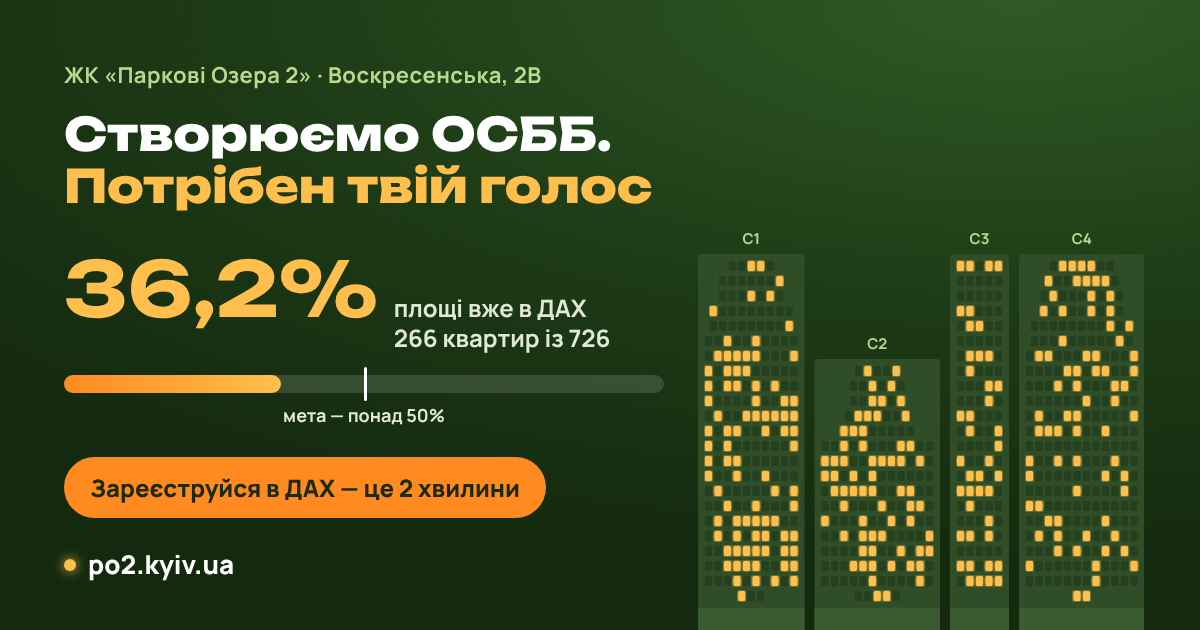
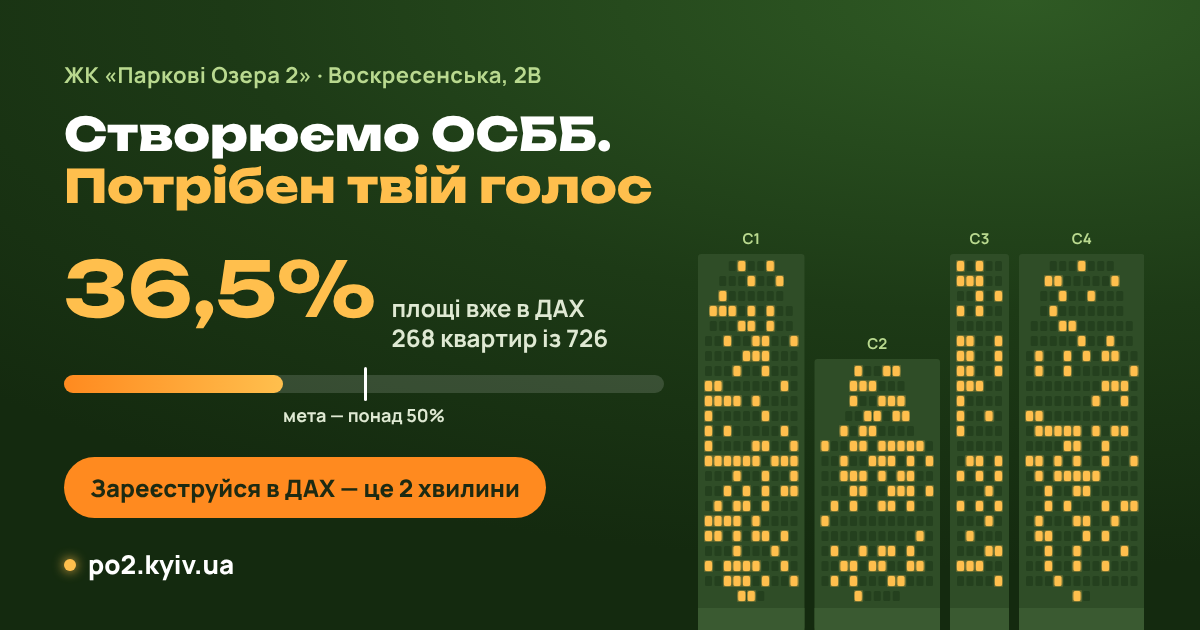
Оновлено голоси ДАХ (36,5%) і прев'ю для Telegram (головна й «Поруч»)
Claude-Session: https://claude.ai/code/session_01WgNAs19H1RoJtxDub5TKHf

Changed region(s): [[0.5858, 0.3921, 0.9558, 0.9651], [0.185, 0.4222, 0.5242, 0.573]]

diff --git a/tools/og-poruch.html b/tools/og-poruch.html
@@ -63,12 +63,12 @@
     [885,335,0],[980,425,0],[952,640,0],[768,345,1],[781,415,1],[795,488,1],[810,565,1]];
   // Справжні заклади й сервіси з poruch.js: [x, y, логотип, працює при відключеннях]
   const PINS = [[140,602,"lafam_kyiv",1],[166,522,"coffee.aspect",1],[300,62,"skyfall.beauty.studio",1],[400,46,"fora",0],[768,345,"nenamazana_",1],
-    [214,330,"np-branch",0]];
+    [214,330,"np-branch",0],[226,598,"np-locker",0],[282,250,"np-locker",0],[668,128,"np-locker",0],[884,470,"np-locker",0]];
   const used = new Set(PINS.map(([x, y]) => x + "," + y));
   document.getElementById("map").innerHTML = `
     <polygon class="yard" points="${YARD}"/><text class="yard__t" x="560" y="440">двір · стилобат</text>
     <g style="filter: drop-shadow(0 6px 8px rgba(60,50,20,.22))">${SH.map((p) => `<polygon class="bld" points="${p}"/>`).join("")}</g>
-    ${[[1,212,598],[2,300,150],[3,610,108],[4,880,560]].map(([n,x,y]) => `<g class="badge" transform="translate(${x} ${y})"><circle r="24"/><text dy="9">${n}</text></g>`).join("")}
+    ${[[1,184,676],[2,300,150],[3,610,108],[4,880,560]].map(([n,x,y]) => `<g class="badge" transform="translate(${x} ${y})"><circle r="24"/><text dy="9">${n}</text></g>`).join("")}
     <text class="street" x="640" y="16">вул. Воскресенська</text>
     ${U.filter(([x, y]) => !used.has(x + "," + y)).map(([x, y, yd]) => `<circle class="${yd ? "u--yard" : "u--street"}" cx="${x}" cy="${y}" r="12"/>`).join("")}
     <defs><clipPath id="c"><circle r="30"/></clipPath></defs>

diff --git a/votes.js b/votes.js
@@ -1,2 +1,2 @@
 // Згенеровано tools/build_votes.py — не редагуйте вручну.
-window.VOTES = {"updatedAt":"2026-11-27T14:27","baseArea":50258.3,"dahArea":18203.0,"areaEstimated":0,"nonres":13,"sections":[{"total":210,"inDah":86},{"total":157,"inDah":65},{"total":110,"inDah":42},{"total":249,"inDah":73}]};
+window.VOTES = {"updatedAt":"2026-11-28T09:42","baseArea":50258.3,"dahArea":18349.6,"areaEstimated":0,"nonres":13,"sections":[{"total":210,"inDah":86},{"total":157,"inDah":66},{"total":110,"inDah":43},{"total":249,"inDah":73}]};

diff --git a/index.html b/index.html
@@ -254,7 +254,7 @@
   </footer>
 
   <script src="data.js?v=20261128a"></script>
-  <script src="votes.js?v=20261128c"></script>
+  <script src="votes.js?v=20261128d"></script>
   <script src="power.js?v=20261127a"></script>
   <script src="app.js?v=20261127a"></script>
 </body>
